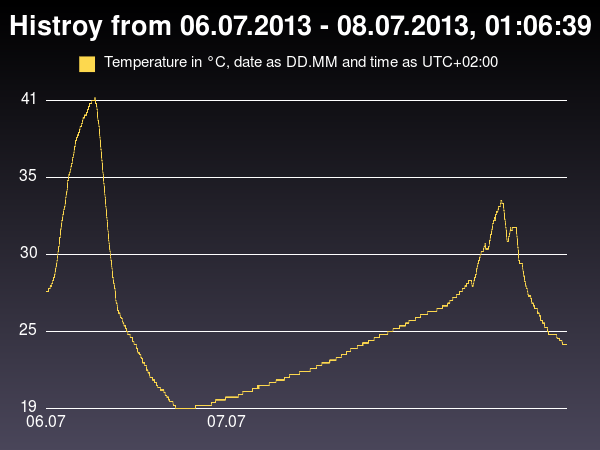
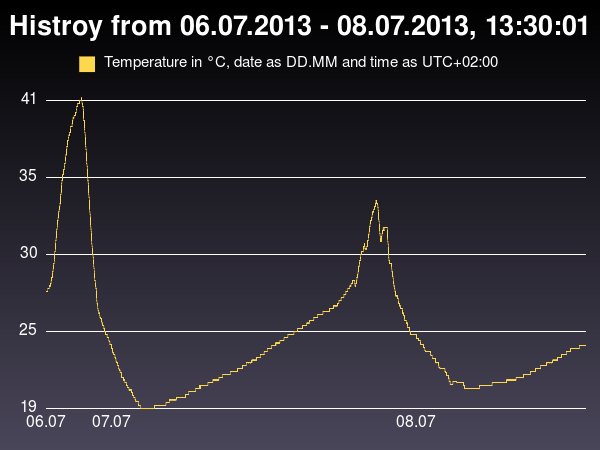
changes in chart and statistics

diff --git a/public/css/style.css b/public/css/style.css
@@ -72,7 +72,7 @@ body{ font:16px/24px Helvetica, Helvetica Neue, Arial, sans-serif; }
 
 .wrapper{
 	width:90%;
-	margin:0 5%;
+  margin:0 5%;
 }
 
 /* ===================
@@ -138,7 +138,7 @@ nav a:hover{
 
 #footer-container footer{
 	color:white;
-	padding:5px;
+	padding:1px 0;
 }
 
 /* ===============

diff --git a/thermometer.rb b/thermometer.rb
@@ -11,17 +11,17 @@ as published by Sam Hocevar. See the COPYING file for more details.
 %w[sinatra thin].each { |g| require g }
 
 SOFTWARE_NAME     = 'Thermometer'
-SOFTWARE_VERSION  = 'v0.17'
+SOFTWARE_VERSION  = 'v0.18'
 
 configure do
   set :bind, '0.0.0.0'
   set :port, 1234
   enable :logging
-  enable :sessions
-#  use Rack::Session::Cookie, :key => 'thermometer.session',
-#                             :path => '/',
-#                             :expire_after => 900,
-#                             :secret => 'hH76Dvj90Lxb157aaPUw'
+#  enable :sessions
+  use Rack::Session::Cookie, :key => 'thermometer.session',
+                             :path => '/',
+                             :expire_after => 900,
+                             :secret => 'hH76Dvj90Lxb157aaPUw'
 end
 
 helpers do
@@ -34,12 +34,17 @@ helpers do
     else "/"
     end
   end
-  
+
   def get_readings
     actual_file = Dir.glob("data/messwerte*").max_by {|f| File.mtime(f)}
     @temp_date, @temp_time, @temp_celcius = `tail -n 1 #{actual_file}`.rstrip.split(',')
   end
-  
+
+  def get_statistics
+    statistics = IO.read('data/gruff-statistics')
+    @total_readings = statistics.chomp
+  end
+
   def protected!
     return if authorized?
     headers['WWW-Authenticate'] = 'Basic realm="Protected Access"'
@@ -64,11 +69,13 @@ end
 
 get '/thermometer' do
   get_readings
+  get_statistics
   erb :thermometer
 end
 
 get '/chart' do
   get_readings
+  get_statistics
   erb :chart
 end
 

diff --git a/gruff.rb b/gruff.rb
@@ -11,9 +11,10 @@ as published by Sam Hocevar. See the COPYING file for more details.
 %w[gruff csv].each { |g| require g }
 
 SOFTWARE_NAME       = 'Gruff Chart Generator'
-SOFTWARE_VERSION    = 'v0.17'
+SOFTWARE_VERSION    = 'v0.18'
 
-actual_file         = Dir.glob("data/messwerte*").max_by {|f| File.mtime(f)}
+actual_file         = Dir.glob('data/messwerte*').max_by {|f| File.mtime(f)}
+statistics_file     = 'data/gruff-statistics'
 date, time, celcius = `tail -n 1 #{actual_file}`.rstrip.split(',')
 start_date          = `head -n 1 #{actual_file}`.rstrip.split(',')[0]
 temp_celcius        = Array.new()
@@ -34,7 +35,7 @@ CSV.foreach(actual_file) do |row|
   if row[0] != date_compare
     tmp_date = row[0][5..-1].split('.').reverse.join('.')
     p tmp_date
-    graph_date.merge!(Hash[i, tmp_date])
+    graph_date.merge!(Hash[i/2, tmp_date])
     date_compare = row[0]
   end
   temp_celcius.push(row[2].to_f)
@@ -52,10 +53,9 @@ g.write('public/temperature_celcius_chart.png')
 
 puts 'Chart is ready.'
 
-#   if not exist dateiname
-#     f = File.new("newfile",  "w+")
-#   else
-#     File.open(gruff.data, 'w') { |file| file.write("your text") }
+statistics = File.open(statistics_file, 'w+')
+statistics.puts(@total_readings)
+statistics.close
 
 puts 'Software ended.'
 exit
